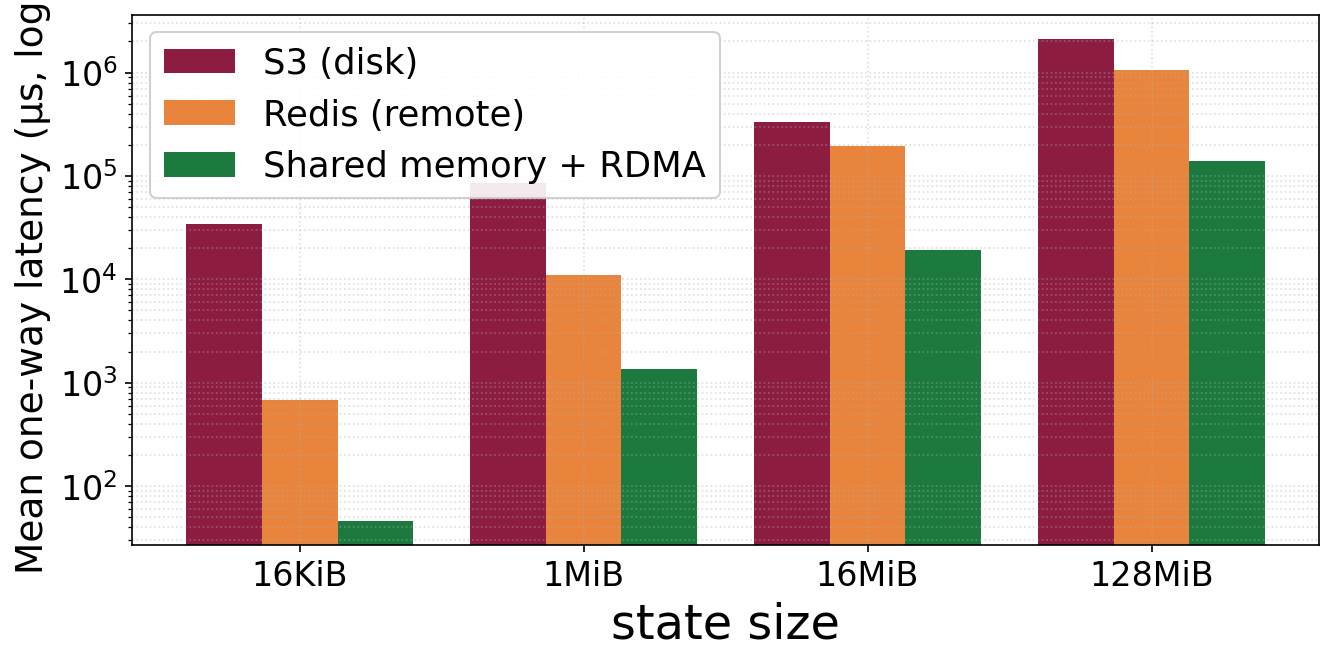
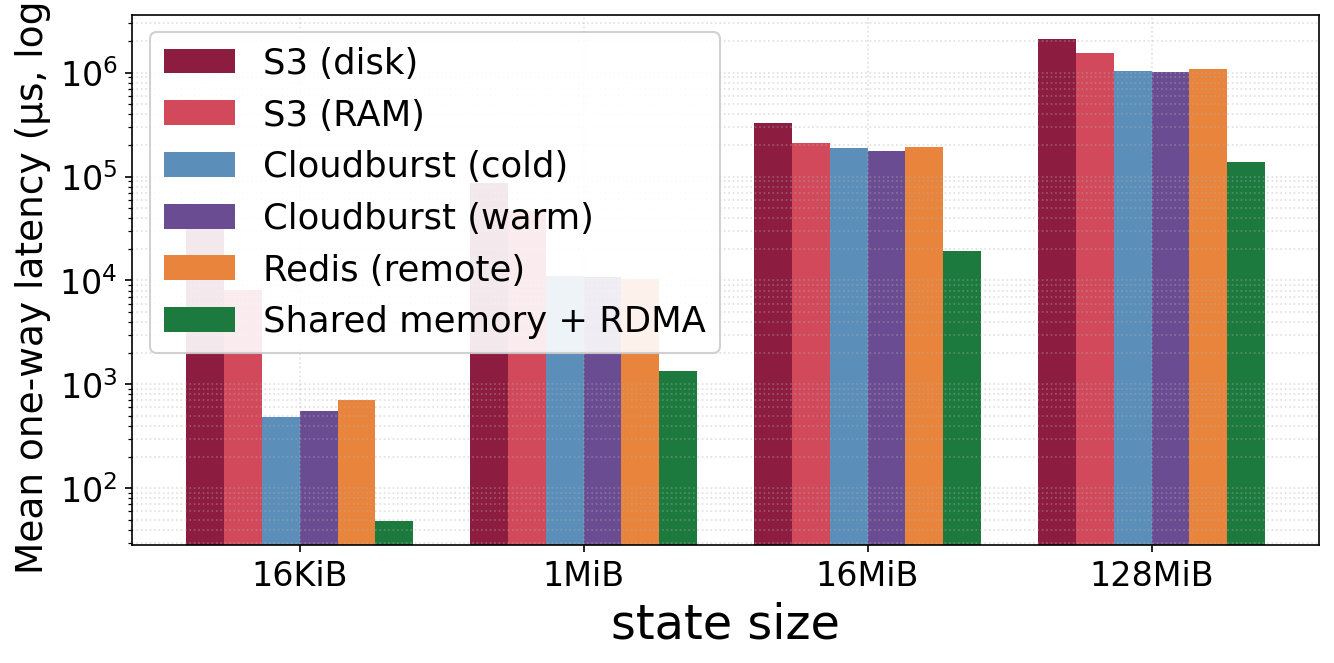
the remote graph

Changed region(s): [[0.0615, 0.0603, 0.9835, 0.8446], [0.0615, 0.3922, 0.0922, 0.4223], [0.0615, 0.2413, 0.0922, 0.2715]]

diff --git a/Tests/Micro-Benchmarks/StateSync-remote/plot_remote.py b/Tests/Micro-Benchmarks/StateSync-remote/plot_remote.py
@@ -34,7 +34,7 @@ plt.rcParams.update({
     "axes.labelsize": LABEL_SIZE, "legend.fontsize": LEGEND_SIZE,
 })
 
-ORDER = ["s3-disk", "s3", "redis-remote", "cloudburst-cold", "cloudburst-warm", "rdma-shm"]
+ORDER = ["s3-disk", "s3", "cloudburst-cold", "cloudburst-warm", "redis-remote", "rdma-shm"]
 LABEL = {
     "s3-disk":         "S3 (disk)",
     "s3":              "S3 (RAM)",
@@ -137,7 +137,7 @@ def plot_throughput(data, outpath, figsize):
         ax.plot(xs, ys, **style(a))
     ax.set_yscale("log")
     _xaxis(ax, all_sizes)
-    ax.set_ylabel("throughput (GiB/s, log)", fontsize=YLABEL_SIZE)
+    ax.set_ylabel("Throughput (GiB/s, log)", fontsize=YLABEL_SIZE)
     ax.legend(fontsize=LEGEND_SIZE, framealpha=0.9)
     fig.tight_layout()
     fig.savefig(outpath, dpi=150, bbox_inches="tight")

diff --git a/Tests/Micro-Benchmarks/StateSync-remote/README.md b/Tests/Micro-Benchmarks/StateSync-remote/README.md
@@ -94,12 +94,13 @@ p50 / p99 and GiB/s. CSV schema (shared by both harnesses):
 #    NODE C (10.10.1.4): disaggregated Redis + BOTH MinIO (disk :9010, RAM :9000)
 ./deploy_backends.sh backend                                  # all backends (no --no-s3)
 #    NODE A (10.10.1.2): Redis for cloudburst-cold (producer-colocated cache)
-./deploy_backends.sh up --bind 10.10.1.2 --no-s3 --no-s3-disk
+./deploy_backends.sh up --bind 10.10.1.2 --no-s3 --no-s3-disk --no-env
 #    NODE B (10.10.1.1): Redis for cloudburst-warm (consumer-colocated cache)
-./deploy_backends.sh up --bind 10.10.1.1 --no-s3 --no-s3-disk
+./deploy_backends.sh up --bind 10.10.1.1 --no-s3 --no-s3-disk --no-env
 
-# 2. point NODE A *and* NODE B at all stores (write backends.env on both; the
-#    grouped-echo form is paste-safe — a long printf can line-wrap and corrupt keys):
+# 2. point NODE A *and* NODE B at all stores. WRITE THIS AFTER step 1 — `deploy up`
+#    without --no-env (and `reset.sh`) overwrite backends.env. The grouped-echo
+#    form is paste-safe (a long printf can line-wrap and corrupt keys):
 { echo REDIS_HOST=10.10.1.4; echo REDIS_PORT=6379; \
   echo CB_CONSUMER_HOST=10.10.1.1; echo CB_PRODUCER_HOST=10.10.1.2; \
   echo S3_ENDPOINT=http://10.10.1.4:9000; echo S3_DISK_ENDPOINT=http://10.10.1.4:9010; \